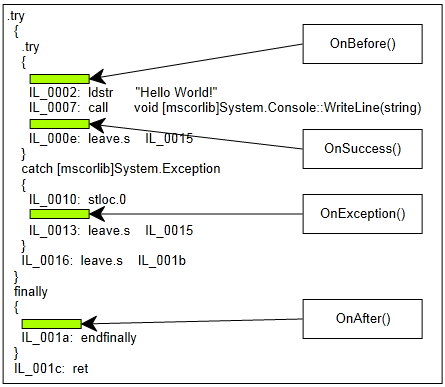
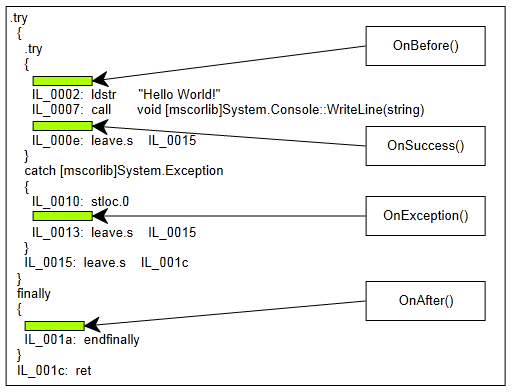
working on report

Changed region(s): [[0.0, 0.0, 1.0, 0.9922]]

diff --git a/report/implementation.tex b/report/implementation.tex
@@ -16,10 +16,10 @@ The Buffalo aspects can also be excluded on any given level, if so the target me
 
 To get the list of the eligible methods for MSIL modification, Buffalo attempts various checking according to figure~\ref{logical_inclusion} to see if it should include a given method.
 
-\begin{figure}[here]
+\begin{figure}[H]
   \includegraphics[scale=1.0]{AspectLogicalInclusion.PNG}
   \centering
-  \caption{Logical inclusion\label{logical_inclusion}}
+  \caption{Logical Inclusion\label{logical_inclusion}}
 \end{figure}
 
 The above logic diagram checks if an aspect is applied, if yes then check if the it is set to be excluded. If the aspect is applied on the assembly level, then Buffalo simply apply the aspect to every public methods in every class within the same assembly.
@@ -32,10 +32,10 @@ If aspect is not on assembly or the class level, Buffalo checks each method to d
 
 Figure~\ref{uml01} depicts part of the system, where it shows how we can use it to find aspects during reflection.
 
-\begin{figure}[here]
+\begin{figure}[H]
   \includegraphics[scale=1.0]{Uml01.PNG}
   \centering
-  \caption{Aspect inheritance\label{uml01}}
+  \caption{Aspect Inheritance\label{uml01}}
 \end{figure}
 
 All aspects ultimately implements the IAspect interface, therefore we can conclude that for all the types in an assembly, if it implements IAspect, then it must be an aspect itself.
@@ -48,14 +48,26 @@ Furthermore, by default, all the aspects themselves will be ignored. This is to 
 
 Another point worth mentioning is that when developing an aspect, the developer can access some information about the annotated method, such as the method signature, return type, list of parameters passed into the method and their respective values. We will look at some example later on.
 
+\section{Solution Structure}
+
+Originally Buffalo was in one executable, that includes the various aspects and the program that initiate the weaving. It was later on splitted into two assembly. One is the actual implementation as a DLL, another is just a command line executable that calls into the DLL to perform the weaving, as shown in figure~\ref{solutionexplorer}. This separation is necessary so developer can perform weaving from the command line or hook into MSBuild if necessary. To actually write the aspect, developer only need to reference the DLL which is much cleaner than referencing an executable.
+
+\begin{figure}[H]
+  \includegraphics[scale=1.0]{SolutionExplorer.PNG}
+  \centering
+  \caption{Solution Structure\label{solutionexplorer}}
+\end{figure}
+
+The client project is just a test client included in the solution for testing. The full source code is included in Appendix B.
+
 \section{Implementation Overview}
 
 The overall implementation process can be illustrated as figure~\ref{implementation_overview}, where the first step of finding all eligible methods using the logical diagram mentioned in figure~\ref{logical_inclusion}.
 
-\begin{figure}[here]
+\begin{figure}[H]
   \includegraphics[scale=1.0]{ImplementationOverview3.PNG}
   \centering
-  \caption{Implementation overview\label{implementation_overview}}
+  \caption{Implementation Overview\label{implementation_overview}}
 \end{figure}
 
 The actual injection phrase will be depending on the type of aspect, as we mentioned above currently Buffalo supports the Boundary aspects where various point of execution can be intercepted, and the Around aspect where a method can be completely replaced.
@@ -77,20 +89,37 @@ public void SayHello()
 }
 \end{lstlisting}
 
-If we look at the generated MSIL shown in figure~\ref{methodboundary01}(Note that I have cleaned up the MSIL a bit for easy display):
+If we look at the generated MSIL shown in figure~\ref{methodboundaryB4}. For ease of display I have cleaned up the MSIL a bit:
 
-\begin{figure}[here]
-  \includegraphics[scale=1.0]{MethodBoundaryOverviewB4.PNG}
-  \centering
-  \caption{MSIL generated for sample C\# function\label{methodboundary01}}
-\end{figure}
+\begin{lstlisting}[caption={MSIL generated for sample C\# function}, label=methodboundaryB4]
+.try
+{
+   .try
+   {
+      IL_0002: Ldstr "Hello World!"
+      IL_0007: call void [mscorlib]System.Console::WriteLine(string)
+      IL_000e: leave.s IL0015
+   }
+   catch [mscorlib]System.Exception
+   {
+      IL_0010: stloc.0
+      IL_0013: leave.s IL_0015
+   }
+   IL_0015: leave.s IL_001c
+}
+finally
+{
+   IL_001a: endfinally
+}
+IL_001c: ret
+\end{lstlisting}
 
-This is the standard emission of the CLR. In CLR there is a concept of the protected region, where each region is associated with a handler. A try-catch-finally is actually encapsulated in two such regions: a catch and a finally. From here we can easily figure out where to inject our aspect, as shown in the following figure~\ref{methodboundary02}
+This is the standard emission of the CLR when it encounters the try-catch-finaly statement. In CLR there is a concept of the protected region, where each region is associated with a handler. A try-catch-finally is actually encapsulated in two such regions: a catch and a finally. From here we can easily figure out where to inject our varous boundary aspects, as shown in the following figure~\ref{methodboundary02}
 
-\begin{figure}[here]
+\begin{figure}[H]
   \includegraphics[scale=1.0]{MethodBoundaryOverview.PNG}
   \centering
-  \caption{MSIL interception points\label{methodboundary02}}
+  \caption{MSIL Interception Points\label{methodboundary02}}
 \end{figure}
 
 \section{MethodAroundAspect Implementation Detail}
@@ -130,10 +159,6 @@ To achieve the above MethodArgs is used. This is the object passed into each asp
 At first each OnBefore, OnSuccess, OnException and OnAfter has its own distinct MethodArgs object passed into them. Later on as an optimization only one instance is instantiated at the beginning of the method body and that instance is used in all the MethodBoundaryAspect.
 
 [Example?]
-
-\section{Solution Structure}
-
-Originally Buffalo was in one executable, that includes the various aspects and the program that initiate the weaving. It was later on splitted into two assembly, one is the actual implementation as a DLL, another is just a command line executable that calls into the DLL to perform the weaving. This separation is necessary so developer can perform weaving from the command line or hook into MSBuild if necessary. To actually write the aspect, developer only need to reference the DLL which is much cleaner than referencing an executable.
 %
 %\begin{itemize}
 %\item{} Software details (use as many section as needed for class design, 

diff --git a/report/design.tex b/report/design.tex
@@ -1,29 +1,35 @@
 \chapter{Design}
 
-There are several broad approaches to implementing an AOP framework. The ideal approach is to extend the compiler of the target language to provide built-in support. Even Though the C\# compiler from Microsoft is not open source, the alternative Mono C\# compiler is, so this is a viable option. However that would have been a pretty big undertaking, and I was not sure if I can tackle and finish it in the timeframe I wanted.
+\section{Approaches on AOP Support}
 
-If compiler support is not an option, that leaves framework support as another viable option. There are several approaches to implement framework to provide AOP capabilities.
+There are several broad approaches to implementing an AOP framework. The ideal approach is to extend the compiler of the target language to provide built-in support, making AOP the first class citizen. Even Though the C\# compiler from Microsoft is not open source, the alternative Mono C\# compiler is, so this is a viable option. However that would have been a fairly big undertaking, and I was not sure if I can tackle and finish it in the timeframe I wanted.
+
+If compiler support out of the picture, that leaves framework support as another viable option. There are several approaches to implement framework to provide AOP capabilities.
+
+\section{Runtime Interception}
 
 Early on I have narrowed them down to between Runtime Interception and Compile Time Weaving. As its name suggested, runtime interception operates while the program is in execution. It involves the use of the proxy pattern, where client communicate with the target object via a proxy, and aspects are injected to the proxy, thus enabling runtime behavior of the program to be modified. As figure~\ref{proxy_model} illustrates.
 
-\begin{figure}[here]
+\begin{figure}[H]
   \includegraphics[scale=1.0]{Proxy.PNG}
   \centering
-  \caption{AOP framework using proxy\label{proxy_model}}
+  \caption{AOP Framework Using Proxy Pattern\label{proxy_model}}
 \end{figure}
 
 New functionalities can be “added” to the target object via the proxy. The disadvantage of this approach is that it involves the generation of proxy object at runtime, which will impact the runtime performance of the application. It is also restricting in that both target object and the proxy must implement a common interface for this to work, and that only virtual methods are exposed.
 
 From the usage perspective, to set this up, a developer usually have to provide some type of mapping between the target object and the proxy via a configuration file so the actual proxy generation can occur. This approach is easier to implement, but not as easy to use.
 
-The approach I decided to use is Compile Time Weaving. The basic idea is after compilation of the assembly, the framework takes over and disassemble the assembly, and weave in the defined aspect code to all targeted methods. This approach is more difficult to implement as it involves modifying MSIL instructions. But the advantage is that no runtime performance of proxy generation will be needed. And since this happens post compilation we can hook it into the Microsoft Build System to have the weaving invoked automatically if needed, so no manual setup is required from the developer.
+\section{Compile Time Weaving}
+
+The approach Buffalo uses is Compile Time Weaving. The basic idea is after compilation of the assembly, the framework takes over and disassemble the assembly, and weave in the defined aspect code to all targeted methods. This approach is more difficult to implement as it involves modifying MSIL instructions. But the advantage is that no runtime performance of proxy generation will be needed. And since this happens post compilation we can hook it into the Microsoft Build System to have the weaving invoked automatically if needed, so no manual setup is required from the developer.
 
 Figure~\ref{buffalo_model} shows an overview of the compilation process and where Buffalo will fit in.
 
-\begin{figure}[here]
+\begin{figure}[H]
   \includegraphics[scale=1.0]{BuffaloOverview.PNG}
   \centering
-  \caption{AOP framework using proxy\label{buffalo_model}}
+  \caption{Buffalo Model\label{buffalo_model}}
 \end{figure}
 
 \section{Method Boundary Aspect}
@@ -68,7 +74,7 @@ That leads me to dynamically generating a method in MSIL with the same method si
 
 In this generated method I issued a call to the aspect’s Invoke() method, which is the actual aspect code I want to run. Inside the Invoke method, developer can make a call back to the original method via a call to the Procee() method. Then throughout the program, for any calls made to the original method, I would change them to call the generated method instead. This is illustrated in figure~\ref{around_overview}
 
-\begin{figure}[here]
+\begin{figure}[H]
   \includegraphics[scale=1.0]{AroundOverview.PNG}
   \centering
   \caption{Method Around Aspect\label{around_overview}}

diff --git a/report/Project.tex b/report/Project.tex
@@ -27,6 +27,7 @@
 \usepackage{enumerate}
 \usepackage{afterpage}
 \usepackage{listings}
+\usepackage{float}
 
 \lstset{numbers=left,
  frame=single,
@@ -115,11 +116,11 @@ To Jackson and Evan
 \prefacesection{Acknowledgments}
 %\vfill
 %\begin{center}
-I am grateful for my advisor Prof. Heliotis, whose insightful advices, guidance and support from the initial of the project to the final completion enabled me to a better understanding of the project.
+I am grateful for my advisor Prof. Heliotis, whose insightful advices, guidance and support from the beginning enabled me to a better understanding of the project.
 
 I am also grateful for Prof. Kazemian and Prof. Fluet for their invaluable feedbacks.
 
-Lastly I want to thank my wife Michelle, for all the support and encouragement during my years at school. If it was not for her I might not have even gone on this adventurous journey.
+Lastly I want to thank my wife Michelle, for all the support and encouragement during my years at school.
 %\end{center}
 %\vfill
 %%%%%%%%%%%%%%%%%%%%%%%%%%%%%%%%%%%%%%%%%%%%%%%%%%%%%%%%%%%%%%%%%%%%%%%%%%%%%%%
